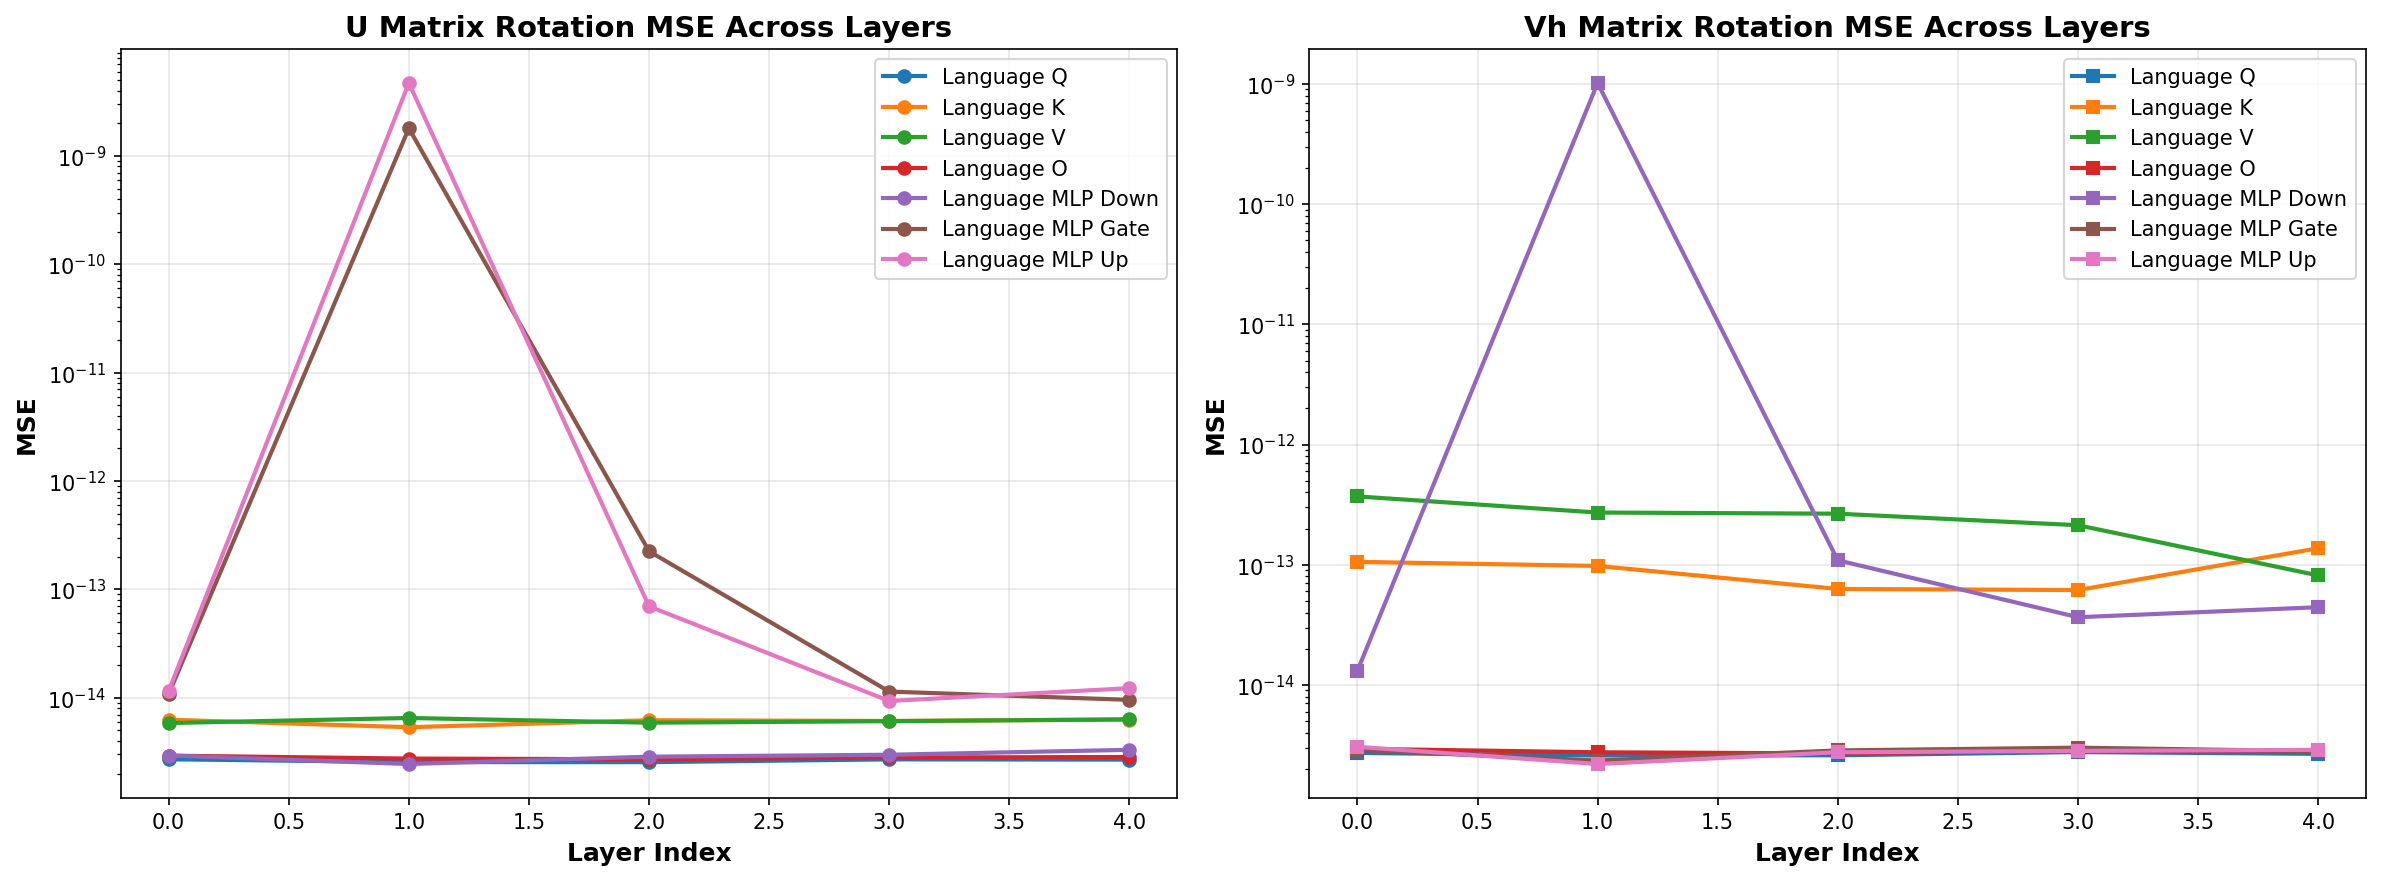
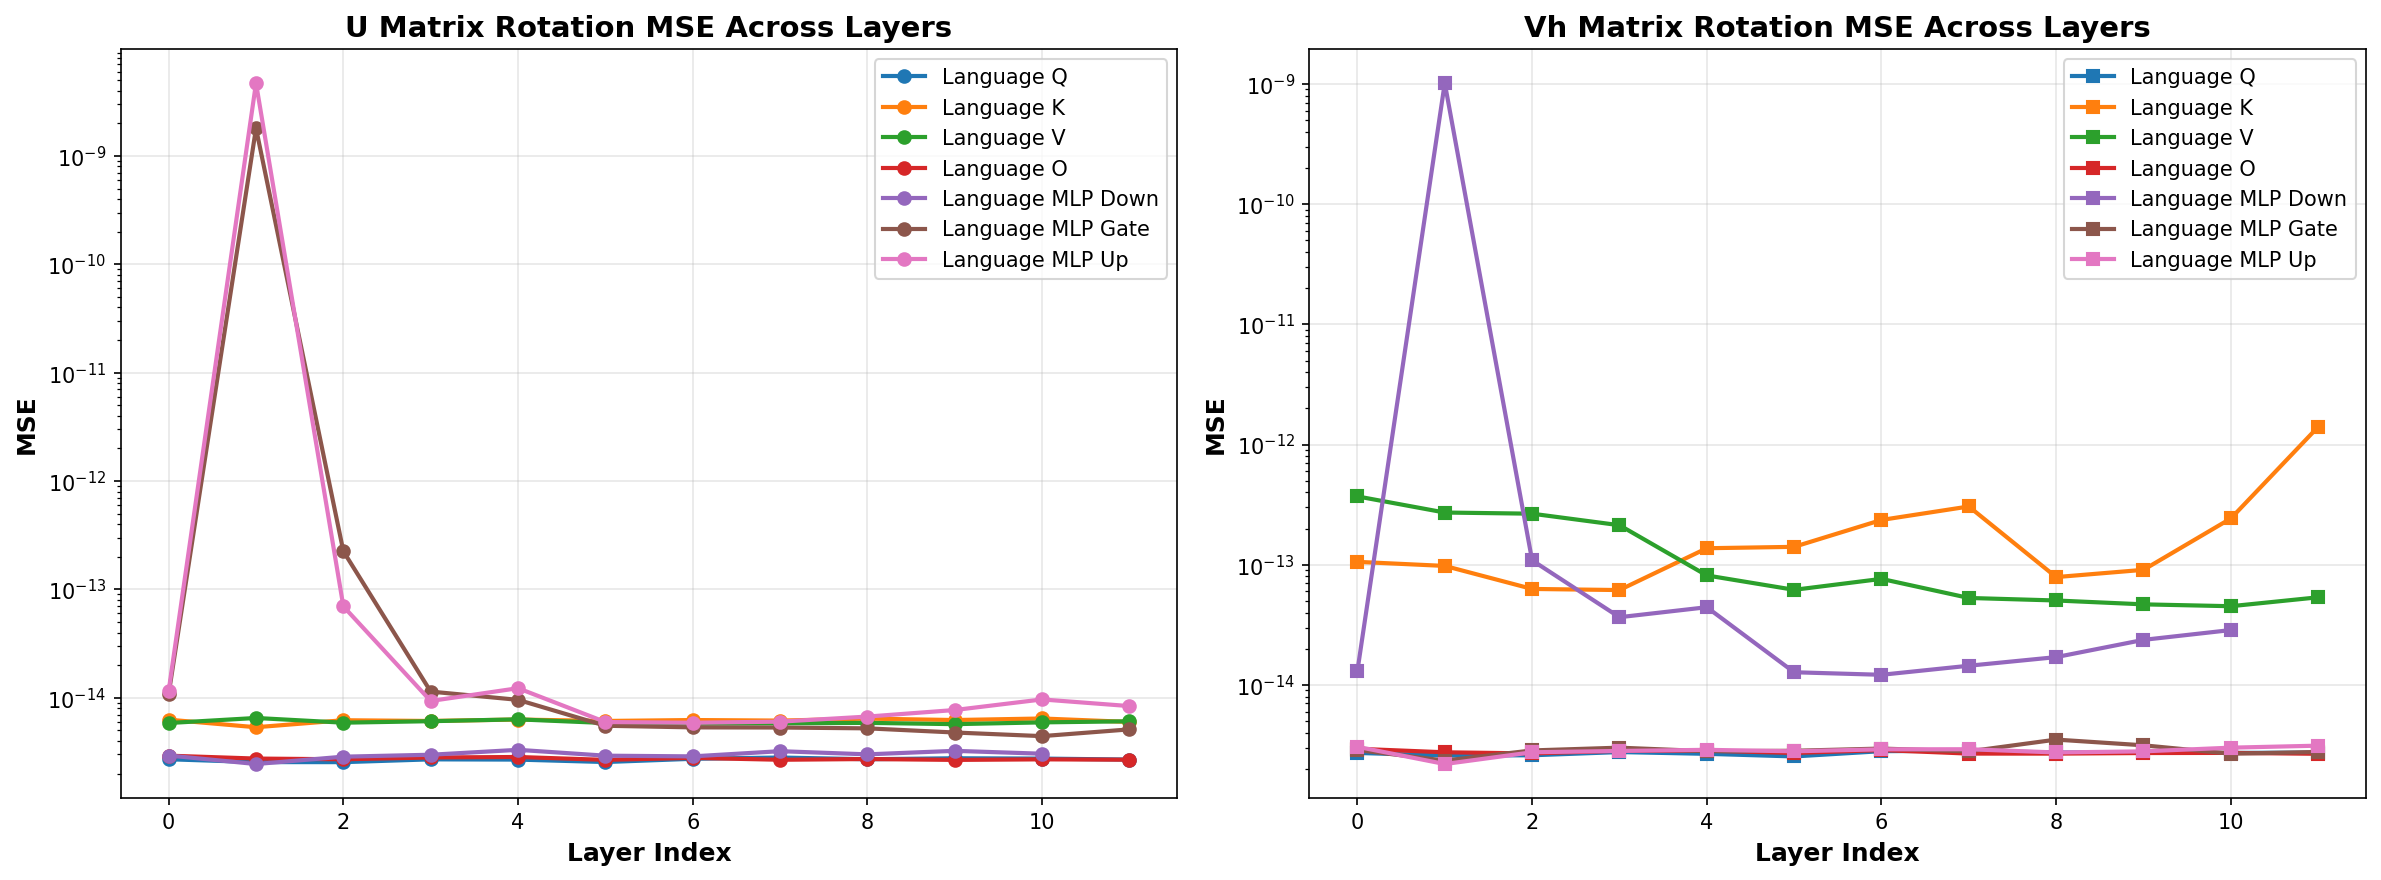
update language image

diff --git a/svd_compare.py b/svd_compare.py
@@ -313,12 +313,12 @@ if __name__ == "__main__":
         # 如果需要分析 language 层，取消下面的注释
     ]
     
-    plot_layer_mse_curves(layer_configs, output_path=output_path)
+    # plot_layer_mse_curves(layer_configs, output_path=output_path)
     
     
     # for language parts
     layer_start = 0
-    layer_end = 5  # 分析前10层
+    layer_end = 12  # 分析前10层
     
     output_path = "rotation_mse_curves_language.png"
     
